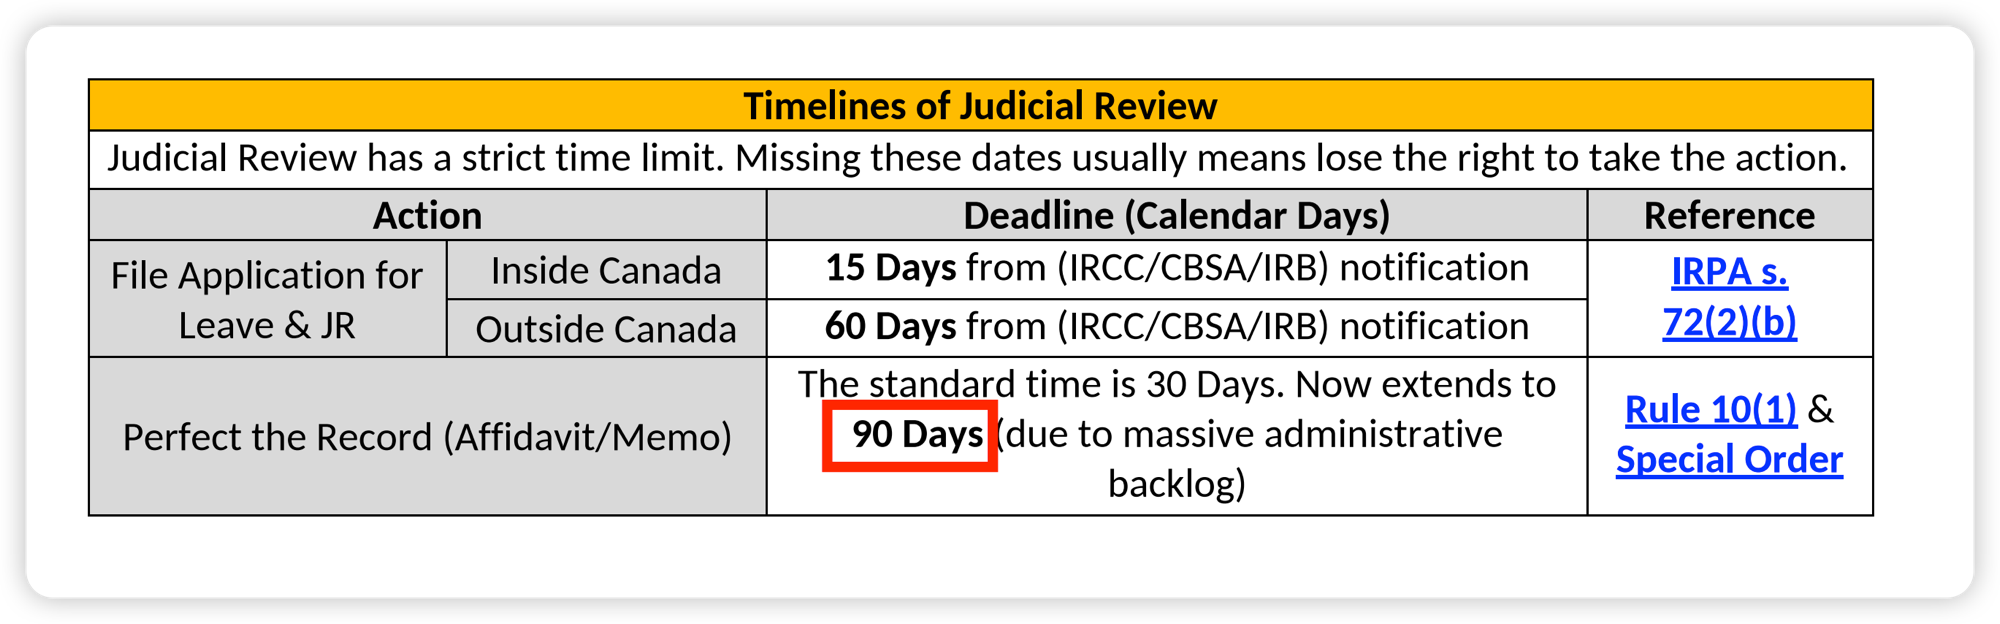
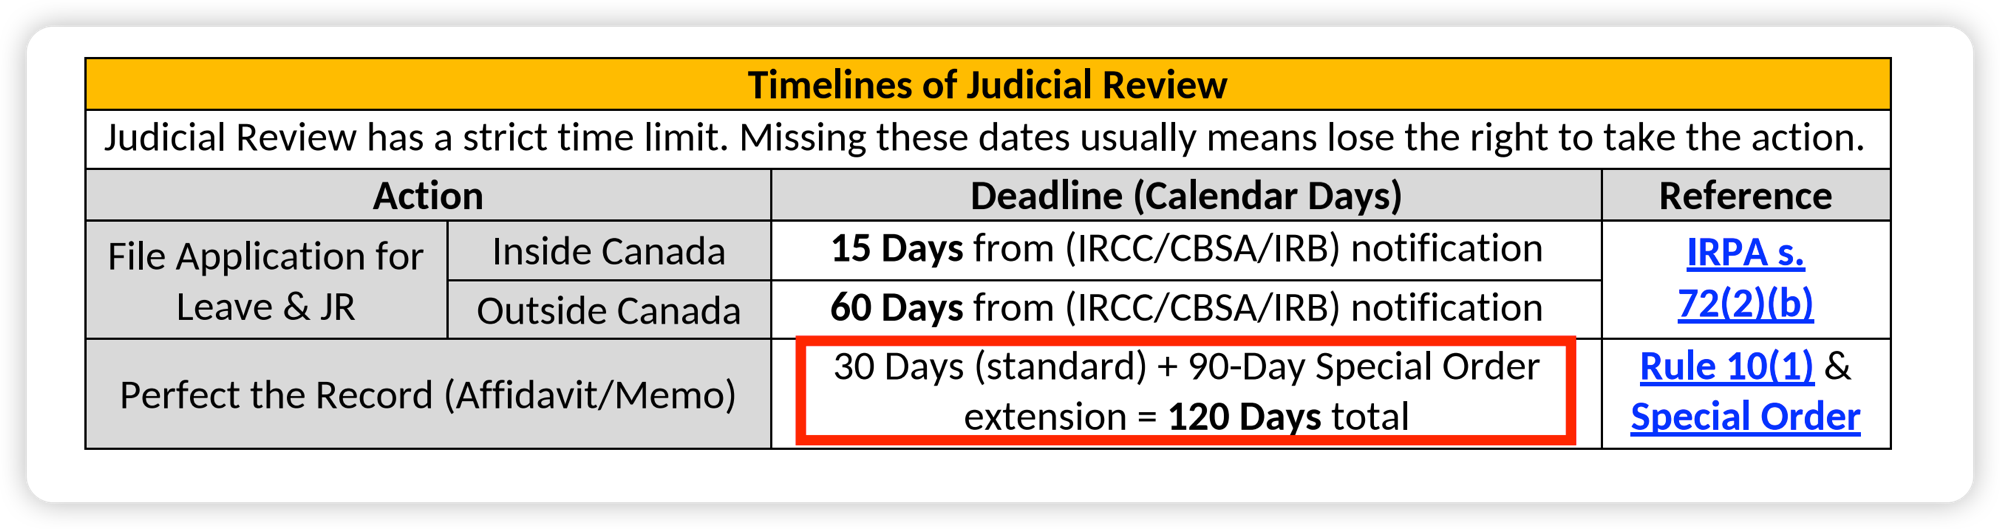
Update #s6 — correct Perfect the Record deadline to 120 Days (30 + 90-day extension)

Changed region(s): [[0.031, 0.0907, 0.961, 0.8771], [0.031, 0.9376, 0.992, 0.9679], [0.031, 0.0302, 0.992, 0.0605]]

diff --git a/plus-en.html b/plus-en.html
@@ -55,7 +55,6 @@
   .title-row h1 { margin: 0; }
   .contact-btn { flex-shrink: 0; margin-left: 16px; padding: 6px 14px; font-size: 12px; font-weight: 600; color: #1a3a5c; background: #fff; border: 1.5px solid #1a3a5c; border-radius: 5px; text-decoration: none; white-space: nowrap; line-height: 1.4; }
   .contact-btn:hover { background: #eef2f7; }
-  .book-logo { float: right; width: 58%; height: auto; object-fit: contain; margin-right: -3%; margin-top: -4%; }
 </style>
 </head>
 <body>
@@ -85,7 +84,6 @@
     <p class="last-updated"><span style="color: #222;">Oct 2026 Edition</span> &nbsp;|&nbsp; Last updated: 2026-09-30</p>
 
     <div class="toc">
-      <img class="book-logo" src="https://cdn.shopify.com/s/files/1/0717/4848/5213/files/PREVIEW_COPY.jpg?v=1765132904" alt="The EPE Cheatsheet">
       <h2>Table of Contents</h2>
       <h3>Standard</h3>
       <ul>
@@ -95,7 +93,7 @@
         <li><a href="#update-s3" target="_self">Update #s3 — Abuse of Discretion: 3 sub-bullets missing after "such as:"</a></li>
         <li><a href="#update-s4" target="_self">Update #s4 — Common Removal Order Situations: FN Overstaying / Non-compliance → Exclusion Order (not Departure Order)</a></li>
         <li><a href="#update-s5" target="_self">Update #s5 — Conditional Removal Order: "effective immediately" → comes into force per IRPA s.49(2)</a></li>
-        <li><a href="#update-s6" target="_self">Update #s6 — Perfect the Record deadline: 75 Days → 90 Days (June 2026 Special Order)</a></li>
+        <li><a href="#update-s6" target="_self">Update #s6 — Perfect the Record deadline: 75 Days → 120 Days (June 2026 Special Order)</a></li>
         <!-- END_S_TOC -->
       </ul>
       <h3>Plus Only</h3>
@@ -300,19 +298,19 @@
       </table>
     </div>
     <div class="board" id="update-s6">
-      <h3>Update #s6 — Perfect the Record deadline: 75 Days → 90 Days</h3>
+      <h3>Update #s6 — Perfect the Record deadline: 75 Days → 120 Days</h3>
       <p class="entry-meta"><span class="page-ref"></span> &nbsp;|&nbsp; Section 2.5 — Federal Court (Judicial Review) &nbsp;|&nbsp; Updated: 2026-09-30</p>
 
       <p class="sub-label">Original Text</p>
       <img src="images/s6_original.png" alt="Original content showing 75 Days" class="update-img">
 
       <p class="sub-label">Updated Text</p>
-      <img src="images/s6_updated.png" alt="Updated content showing 90 Days" class="update-img">
+      <img src="images/s6_updated.png" alt="Updated content showing 120 Days" class="update-img">
 
       <p class="sub-label">Explanation</p>
-      <p>Effective June 26, 2026, the Federal Court issued a new Special Order extending the deadline to perfect an application for leave and judicial review (i.e., file the Applicant's Record) to <strong>90 days</strong>. This supersedes the May 2025 Special Order, which had set the deadline at 75 days.</p>
+      <p>Effective June 26, 2026, the Federal Court Special Order grants applicants an extension of <strong>90 days</strong> on top of the standard 30-day deadline under Rule 10(1) of the FCCIRPR. The total deadline to perfect an application for leave is therefore <strong>120 days</strong> (30 Days standard + 90-Day Special Order extension). This supersedes the May 2025 Special Order, which had set the total at 75 days.</p>
       <p>The Court cited an unprecedented caseload — projected to exceed 30,000 immigration filings in 2026 (nearly five times pre-pandemic levels) — as the reason for the further extension.</p>
-      <p>Source: <a href="https://www.fct-cf.ca/en/pages/media/news-bulletins/consolidated-practice-guidelines-for-citizenship-immigration-and-refugee-protection-proceedings">Federal Court — Consolidated Practice Guidelines for Citizenship, Immigration and Refugee Protection Proceedings (June 26, 2026)</a></p>
+      <p>Source: <a href="https://www.fct-cf.ca/Content/assets/pdf/base/2026-08-12-Consolidated-Immigration-Practice-Guidelines.pdf">Federal Court — Consolidated Immigration Practice Guidelines (August 12, 2026)</a></p>
     </div>
     <!-- END_S_ENTRIES -->
 

diff --git a/standard-en.html b/standard-en.html
@@ -84,7 +84,7 @@
         <li><a href="#update-s3" target="_self">Update #s3 — Abuse of Discretion: 3 sub-bullets missing after "such as:"</a></li>
         <li><a href="#update-s4" target="_self">Update #s4 — Common Removal Order Situations: FN Overstaying / Non-compliance → Exclusion Order (not Departure Order)</a></li>
         <li><a href="#update-s5" target="_self">Update #s5 — Conditional Removal Order: "effective immediately" → comes into force per IRPA s.49(2)</a></li>
-        <li><a href="#update-s6" target="_self">Update #s6 — Perfect the Record deadline: 75 Days → 90 Days (June 2026 Special Order)</a></li>
+        <li><a href="#update-s6" target="_self">Update #s6 — Perfect the Record deadline: 75 Days → 120 Days (June 2026 Special Order)</a></li>
         <!-- END_S_TOC -->
       </ul>
     </div>
@@ -282,19 +282,19 @@
       </table>
     </div>
     <div class="board" id="update-s6">
-      <h3>Update #s6 — Perfect the Record deadline: 75 Days → 90 Days</h3>
+      <h3>Update #s6 — Perfect the Record deadline: 75 Days → 120 Days</h3>
       <p class="entry-meta"><span class="page-ref"></span> &nbsp;|&nbsp; Section 2.5 — Federal Court (Judicial Review) &nbsp;|&nbsp; Updated: 2026-09-30</p>
 
       <p class="sub-label">Original Text</p>
       <img src="images/s6_original.png" alt="Original content showing 75 Days" class="update-img">
 
       <p class="sub-label">Updated Text</p>
-      <img src="images/s6_updated.png" alt="Updated content showing 90 Days" class="update-img">
+      <img src="images/s6_updated.png" alt="Updated content showing 120 Days" class="update-img">
 
       <p class="sub-label">Explanation</p>
-      <p>Effective June 26, 2026, the Federal Court issued a new Special Order extending the deadline to perfect an application for leave and judicial review (i.e., file the Applicant's Record) to <strong>90 days</strong>. This supersedes the May 2025 Special Order, which had set the deadline at 75 days.</p>
+      <p>Effective June 26, 2026, the Federal Court Special Order grants applicants an extension of <strong>90 days</strong> on top of the standard 30-day deadline under Rule 10(1) of the FCCIRPR. The total deadline to perfect an application for leave is therefore <strong>120 days</strong> (30 Days standard + 90-Day Special Order extension). This supersedes the May 2025 Special Order, which had set the total at 75 days.</p>
       <p>The Court cited an unprecedented caseload — projected to exceed 30,000 immigration filings in 2026 (nearly five times pre-pandemic levels) — as the reason for the further extension.</p>
-      <p>Source: <a href="https://www.fct-cf.ca/en/pages/media/news-bulletins/consolidated-practice-guidelines-for-citizenship-immigration-and-refugee-protection-proceedings">Federal Court — Consolidated Practice Guidelines for Citizenship, Immigration and Refugee Protection Proceedings (June 26, 2026)</a></p>
+      <p>Source: <a href="https://www.fct-cf.ca/Content/assets/pdf/base/2026-08-12-Consolidated-Immigration-Practice-Guidelines.pdf">Federal Court — Consolidated Immigration Practice Guidelines (August 12, 2026)</a></p>
     </div>
     <!-- END_S_ENTRIES -->
 
